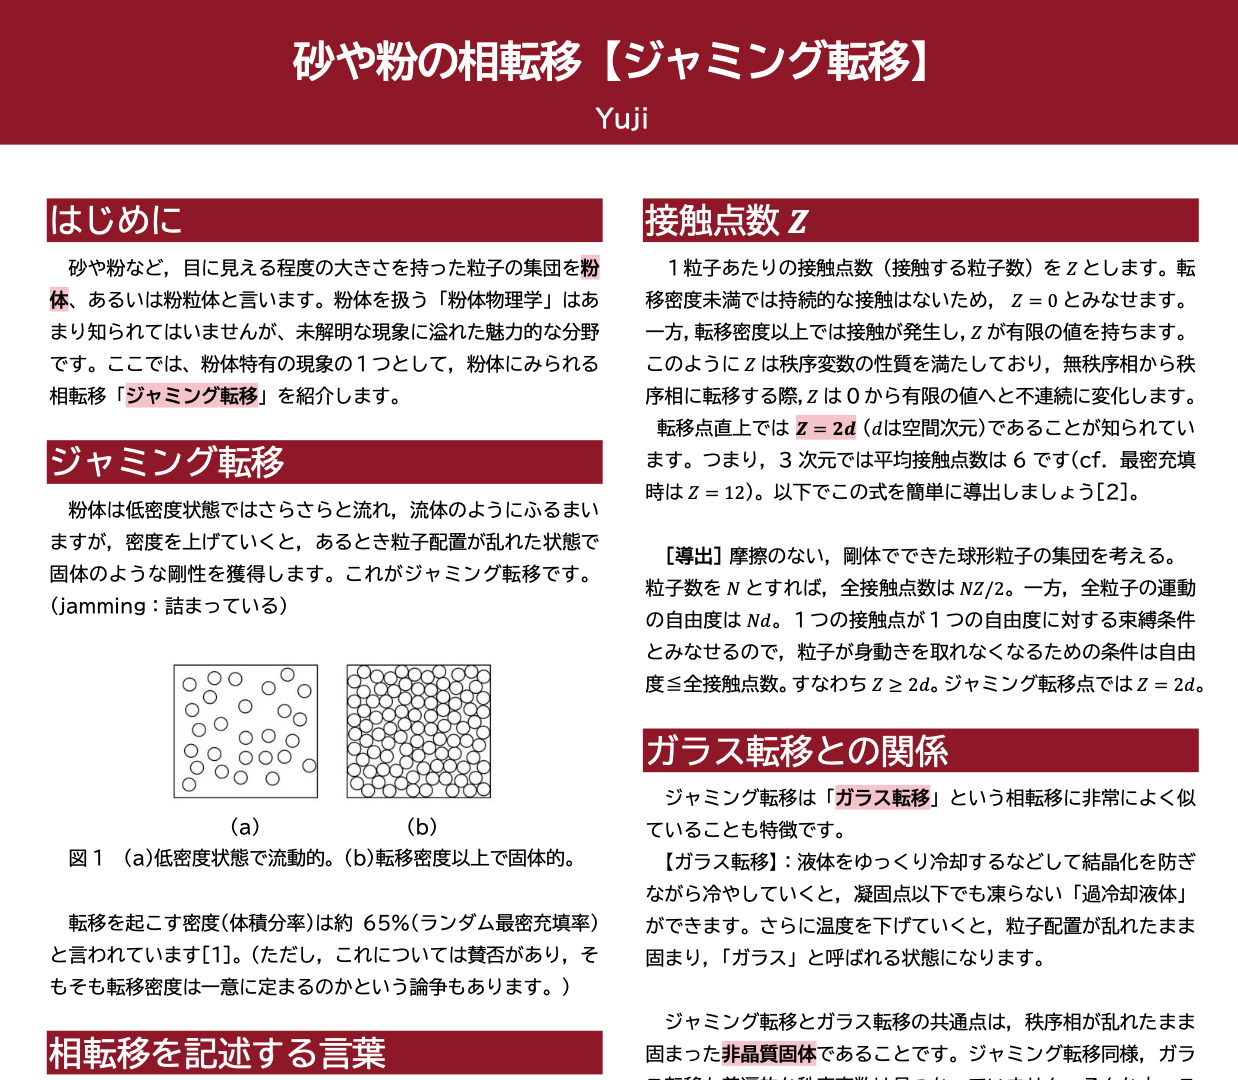
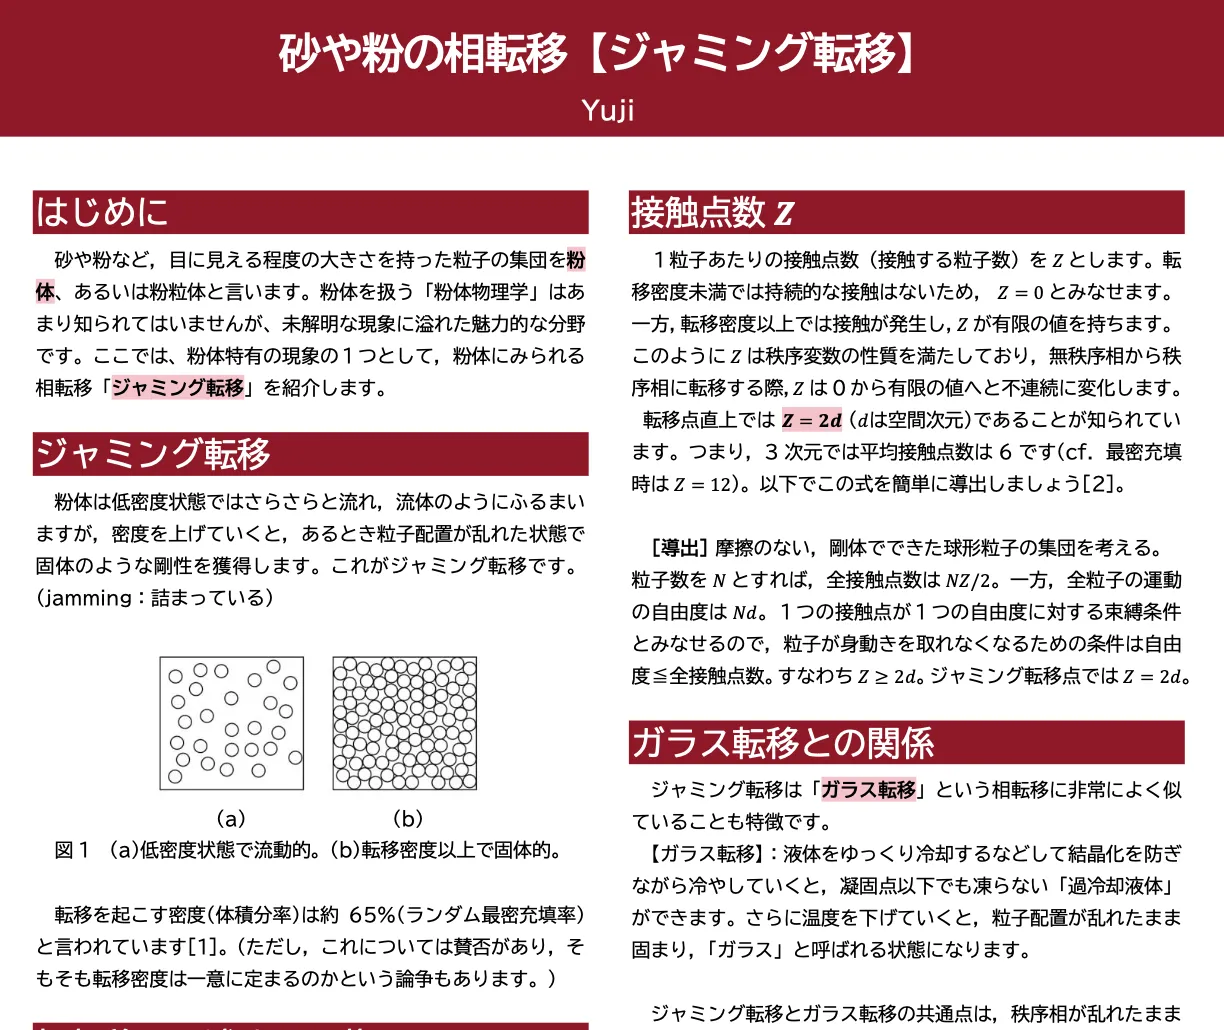
ポスター画像の修正,スマホでの見え方調整

Changed region(s): [[0.0, 0.1864, 0.9935, 1.0], [0.2173, 0.0311, 0.7451, 0.1243]]

diff --git a/events/2025/rikoten.css b/events/2025/rikoten.css
@@ -63,6 +63,14 @@ h3 {
   grid-template-columns: repeat(auto-fill, minmax(400px, 1fr)); /* 幅400px以上の列を自動で作る */
   gap: 40px; /* アイテム間の隙間 */
 }
+
+@media (max-width: 600px) {
+  #posterlist {
+    grid-template-columns: repeat(auto-fill, minmax(180px, 1fr)); /* スマホでは最小幅180pxに */
+    gap: 20px;
+  }
+}
+
 .posterlist__item {
   margin-bottom: 10px;
 }
@@ -79,6 +87,12 @@ h3 {
   font-weight: bold;
   margin-bottom: 0.5rem;
   padding: unset;
+}
+
+@media (max-width: 600px) {
+  .poster__name {
+    font-size: 1rem;
+  }
 }
 
 .poster__gallery {

diff --git a/events/2025/rikoten.html b/events/2025/rikoten.html
@@ -162,7 +162,7 @@
 </article>
 <article class="poster posterlist__item" data-ruby="あおゆきえぜみ">
   <div class="poster__thumbnail-container">
-    <a href="./poster/ポスター１＿うぉむ.pdf" target="_blank" rel="noopener">
+    <a href="./poster/高校数学で.pdf" target="_blank" rel="noopener">
       <img src="./poster/picture/高校数学で.webp" alt="ポスター表紙" class="poster__thumbnail">
       <span class="poster__link-text"></span>
     </a>
